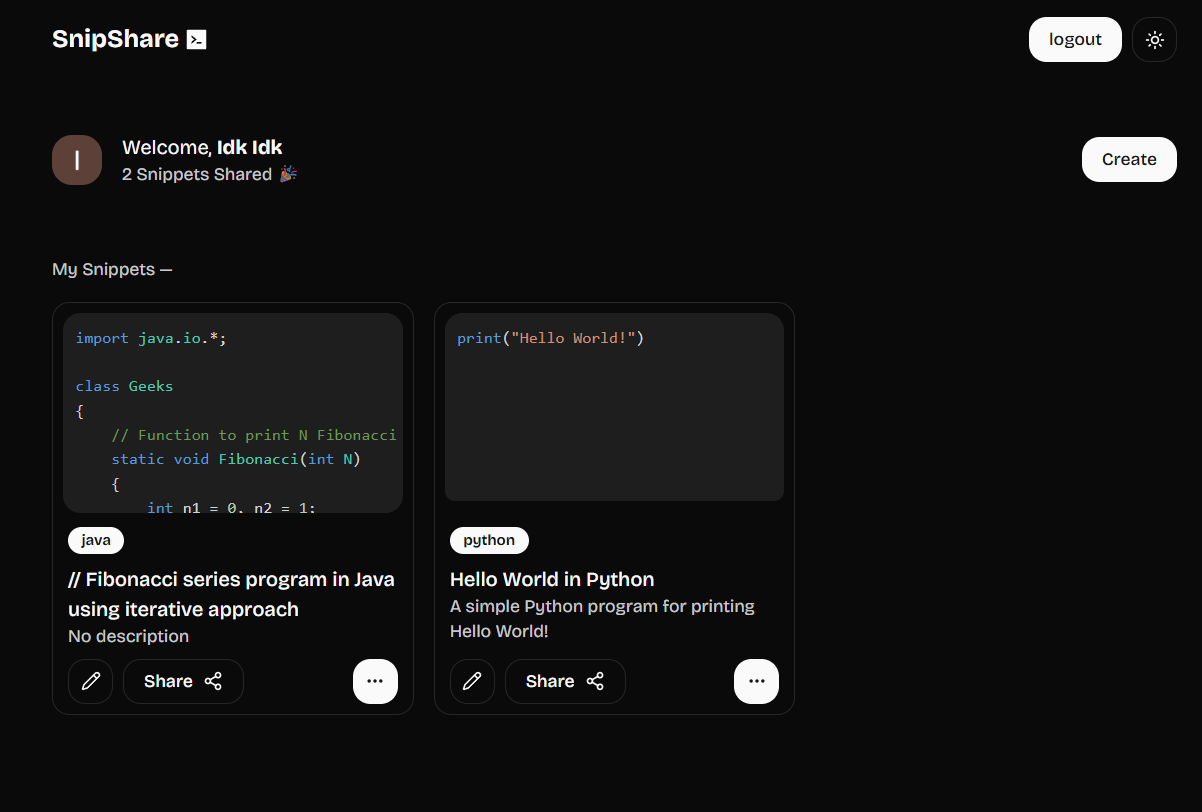
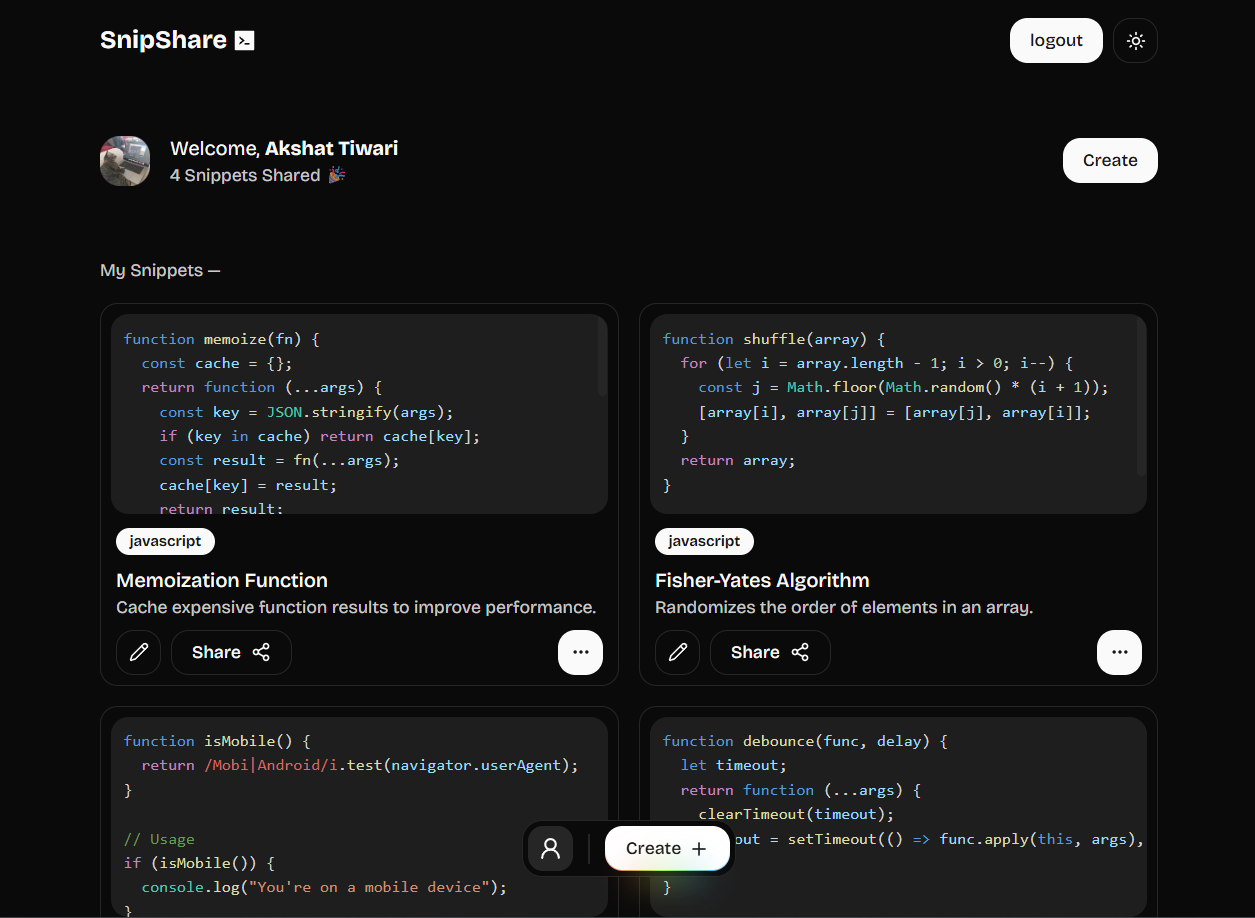
minor changes feat: linked

diff --git a/app/(user)/me/page.jsx b/app/(user)/me/page.jsx
@@ -238,7 +238,7 @@ const UserProfile = () => {
                 key={snippet.id}
                 className="border flex flex-col border-border h-full bg-card rounded-md p-2 shadow-sm overflow-hidden"
               >
-                <div className="rounded-md mb-4">
+                <Link href={`/s/${snippet.id}`} className="rounded-md mb-4">
                   <ScrollArea className="scrollbar-hidden h-40 rounded-md overflow-hidden">
                     <SyntaxHighlighter
                       language={snippet.language}
@@ -259,13 +259,18 @@ const UserProfile = () => {
                       {snippet.code}
                     </SyntaxHighlighter>
                   </ScrollArea>
-                </div>
+                </Link>
                 <div className="flex justify-between flex-col px-1 h-full">
                   <div className="grid">
                     <div className="mb-2 -mt-2">
                       <Badge>{snippet.language}</Badge>
                     </div>
-                    <h1 className="text-base font-medium">{snippet.title}</h1>
+                    <Link
+                      href={`/s/${snippet.id}`}
+                      className="text-base font-medium"
+                    >
+                      {snippet.title}
+                    </Link>
                     <p className="text-sm text-foreground/80">
                       {snippet.desc
                         ? snippet.desc.slice(0, 70)

diff --git a/app/globals.css b/app/globals.css
@@ -4,7 +4,7 @@
 
 @layer utilities {
   .text-balance {
-    text-wrap: balance;
+      text-wrap: balance;
   }
 }
 
@@ -40,8 +40,8 @@
     --color-3: 210 100% 63%;
     --color-4: 195 100% 63%;
     --color-5: 90 100% 63%;
-  }
-  .dark {
+}
+.dark {
     --background: 0 0% 3.9%;
     --foreground: 0 0% 98%;
     --card: 0 0% 3.9%;
@@ -66,18 +66,22 @@
     --chart-3: 30 80% 55%;
     --chart-4: 280 65% 60%;
     --chart-5: 340 75% 55%;
-  }
+}
 }
 
 @layer base {
   * {
     @apply border-border m-0 p-0;
-  }
-  body {
+}
+body {
     @apply bg-background text-foreground overflow-x-hidden;
-  }
-  .scrollbar-hidden{
+}
+.scrollbar-hidden {
     -ms-overflow-style: none;
     scrollbar-width: none;
-  }
+}
+.masonry {
+    columns: 3;
+    column-gap: 20;
+}
 }

diff --git a/app/(user)/new/page.jsx b/app/(user)/new/page.jsx
@@ -105,6 +105,10 @@ export default function Page() {
     const title = data.title;
     const desc = data.description;
     if (!code) return toast.error("Please write some code!");
+    if (!user || !user.uid) {
+      toast.error("You must be signed in to create a snippet.");
+      return;
+    }
     const uId = user.uid;
     try {
       setPublishing(true);
@@ -117,7 +121,6 @@ export default function Page() {
       newDoc.then((e) => {
         setPubId(null);
         toast.success("Snippet created successfully!");
-        
         setCode(null);
         setOutput(null);
         setPubId(e);
